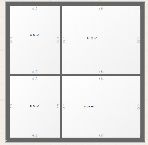
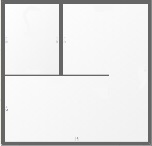
Add files via upload

diff --git a/static/func.js b/static/func.js
@@ -56,8 +56,8 @@ function initHistory(boot = false) {
         {"thick":20,"start":{"x":640,"y":744},"end":{"x":1347,"y":744},"type":"normal","parent":0,"child":2,"angle":0,"equations":{"up":{"A":"h","B":734},"down":{"A":"h","B":754},"base":{"A":"h","B":744}},"coords":[{"x":457,"y":734},{"x":437,"y":754},{"x":1357,"y":754},{"x":1337,"y":734}],"graph":{"0":{},"context":{},"length":1}},
         {"thick":20,"start":{"x":1347,"y":744},"end":{"x":1347,"y":144},"type":"normal","parent":1,"child":3,"angle":-1.5707963267948966,"equations":{"up":{"A":"v","B":1337},"down":{"A":"v","B":1357},"base":{"A":"v","B":1347}},"coords":[{"x":1337,"y":734},{"x":1357,"y":754},{"x":1357,"y":134},{"x":1337,"y":154}],"graph":{"0":{},"context":{},"length":1}},
         {"thick":20,"start":{"x":1347,"y":144},"end":{"x":640,"y":144},"type":"normal","parent":2,"child":4,"angle":3.141592653589793,"equations":{"up":{"A":"h","B":154},"down":{"A":"h","B":134},"base":{"A":"h","B":144}},"coords":[{"x":1337,"y":154},{"x":1357,"y":134},{"x":1010,"y":134},{"x":1030,"y":154}],"graph":{"0":{},"context":{},"length":1}},
-        {"thick":10,"start":{"x":920,"y":144},"end":{"x":920,"y":744},"type":"normal","parent":3,"child":5,"angle":1.5707963267948966,"equations":{"up":{"A":"v","B":1030},"down":{"A":"v","B":1010},"base":{"A":"v","B":1020}},"coords":[{"x":1030,"y":154},{"x":1010,"y":134},{"x":1010,"y":448},{"x":1030,"y":468}],"graph":{"0":{},"context":{},"length":1}},
-        {"thick":10,"start":{"x":1347,"y":458},"end":{"x":640,"y":458},"type":"normal","parent":4,"child":0,"angle":3.141592653589793,"equations":{"up":{"A":"h","B":468},"down":{"A":"h","B":448},"base":{"A":"h","B":458}},"coords":[{"x":1030,"y":468},{"x":1010,"y":448},{"x":437,"y":448},{"x":457,"y":468}],"graph":{"0":{},"context":{},"length":1}}],"roomData":[{"coords":[{"x":447,"y":744},{"x":1347,"y":744},{"x":1347,"y":144},{"x":1020,"y":144},{"x":1020,"y":458},{"x":447,"y":458},{"x":447,"y":744}],"coordsOutside":[{"x":1357,"y":754},{"x":1357,"y":134},{"x":1010,"y":134},{"x":1010,"y":448},{"x":437,"y":448},{"x":437,"y":754},{"x":1357,"y":754}],"coordsInside":[{"x":1337,"y":734},{"x":1337,"y":154},{"x":1030,"y":154},{"x":1030,"y":468},{"x":457,"y":468},{"x":457,"y":734},{"x":1337,"y":734}],"inside":[],"way":["0","2","3","4","5","1","0"],"area":330478,"surface":"","name":"","color":"gradientWhite","showSurface":true,"action":"add"}]});
+        {"thick":20,"start":{"x":920,"y":144},"end":{"x":920,"y":458},"type":"normal","parent":3,"child":5,"angle":1.5707963267948966,"equations":{"up":{"A":"v","B":1030},"down":{"A":"v","B":1010},"base":{"A":"v","B":1020}},"coords":[{"x":1030,"y":154},{"x":1010,"y":134},{"x":1010,"y":448},{"x":1030,"y":468}],"graph":{"0":{},"context":{},"length":1}},
+        {"thick":10,"start":{"x":640,"y":458},"end":{"x":1150,"y":458},"type":"normal","parent":4,"child":0,"angle":3.141592653589793,"equations":{"up":{"A":"h","B":468},"down":{"A":"h","B":448},"base":{"A":"h","B":458}},"coords":[{"x":1030,"y":468},{"x":1010,"y":448},{"x":437,"y":448},{"x":457,"y":468}],"graph":{"0":{},"context":{},"length":1}}],"roomData":[{"coords":[{"x":447,"y":744},{"x":1347,"y":744},{"x":1347,"y":144},{"x":1020,"y":144},{"x":1020,"y":458},{"x":447,"y":458},{"x":447,"y":744}],"coordsOutside":[{"x":1357,"y":754},{"x":1357,"y":134},{"x":1010,"y":134},{"x":1010,"y":448},{"x":437,"y":448},{"x":437,"y":754},{"x":1357,"y":754}],"coordsInside":[{"x":1337,"y":734},{"x":1337,"y":154},{"x":1030,"y":154},{"x":1030,"y":468},{"x":457,"y":468},{"x":457,"y":734},{"x":1337,"y":734}],"inside":[],"way":["0","2","3","4","5","1","0"],"area":330478,"surface":"","name":"","color":"gradientWhite","showSurface":true,"action":"add"}]});
       HISTORY[0] = JSON.stringify(HISTORY[0]);
       localStorage.setItem('history', JSON.stringify(HISTORY));
       load(0);
@@ -66,12 +66,12 @@ function initHistory(boot = false) {
     if (boot == "newL") {
       if (localStorage.getItem('history')) localStorage.removeItem('history');
       HISTORY.push({"objData":[],"wallData":[
-      {"thick":20,"start":{"x":447,"y":250},"end":{"x":447,"y":744},"type":"normal","parent":5,"child":1,"angle":1.5707963267948966,"equations":{"up":{"A":"v","B":457},"down":{"A":"v","B":437},"base":{"A":"v","B":447}},"coords":[{"x":457,"y":468},{"x":437,"y":448},{"x":437,"y":754},{"x":457,"y":734}],"graph":{"0":{},"context":{},"length":1}},
+      {"thick":20,"start":{"x":447,"y":144},"end":{"x":447,"y":744},"type":"normal","parent":5,"child":1,"angle":1.5707963267948966,"equations":{"up":{"A":"v","B":457},"down":{"A":"v","B":437},"base":{"A":"v","B":447}},"coords":[{"x":457,"y":468},{"x":437,"y":448},{"x":437,"y":754},{"x":457,"y":734}],"graph":{"0":{},"context":{},"length":1}},
       {"thick":20,"start":{"x":447,"y":744},"end":{"x":1347,"y":744},"type":"normal","parent":0,"child":2,"angle":0,"equations":{"up":{"A":"h","B":734},"down":{"A":"h","B":754},"base":{"A":"h","B":744}},"coords":[{"x":457,"y":734},{"x":437,"y":754},{"x":1357,"y":754},{"x":1337,"y":734}],"graph":{"0":{},"context":{},"length":1}},
       {"thick":20,"start":{"x":1347,"y":744},"end":{"x":1347,"y":144},"type":"normal","parent":1,"child":3,"angle":-1.5707963267948966,"equations":{"up":{"A":"v","B":1337},"down":{"A":"v","B":1357},"base":{"A":"v","B":1347}},"coords":[{"x":1337,"y":734},{"x":1357,"y":754},{"x":1357,"y":134},{"x":1337,"y":154}],"graph":{"0":{},"context":{},"length":1}},
-      {"thick":20,"start":{"x":1347,"y":144},"end":{"x":1020,"y":144},"type":"normal","parent":2,"child":4,"angle":3.141592653589793,"equations":{"up":{"A":"h","B":154},"down":{"A":"h","B":134},"base":{"A":"h","B":144}},"coords":[{"x":1337,"y":154},{"x":1357,"y":134},{"x":1010,"y":134},{"x":1030,"y":154}],"graph":{"0":{},"context":{},"length":1}},
-      {"thick":20,"start":{"x":1020,"y":144},"end":{"x":1020,"y":550},"type":"normal","parent":3,"child":5,"angle":1.5707963267948966,"equations":{"up":{"A":"v","B":1030},"down":{"A":"v","B":1010},"base":{"A":"v","B":1020}},"coords":[{"x":1030,"y":154},{"x":1010,"y":134},{"x":1010,"y":448},{"x":1030,"y":468}],"graph":{"0":{},"context":{},"length":1}},
-      {"thick":20,"start":{"x":1020,"y":250},"end":{"x":447,"y":250},"type":"normal","parent":4,"child":0,"angle":3.141592653589793,"equations":{"up":{"A":"h","B":468},"down":{"A":"h","B":448},"base":{"A":"h","B":458}},"coords":[{"x":1030,"y":468},{"x":1010,"y":448},{"x":437,"y":448},{"x":457,"y":468}],"graph":{"0":{},"context":{},"length":1}}],"roomData":[{"coords":[{"x":447,"y":744},{"x":1347,"y":744},{"x":1347,"y":144},{"x":1020,"y":144},{"x":1020,"y":458},{"x":447,"y":458},{"x":447,"y":744}],"coordsOutside":[{"x":1357,"y":754},{"x":1357,"y":134},{"x":1010,"y":134},{"x":1010,"y":448},{"x":437,"y":448},{"x":437,"y":754},{"x":1357,"y":754}],"coordsInside":[{"x":1337,"y":734},{"x":1337,"y":154},{"x":1030,"y":154},{"x":1030,"y":468},{"x":457,"y":468},{"x":457,"y":734},{"x":1337,"y":734}],"inside":[],"way":["0","2","3","4","5","1","0"],"area":330478,"surface":"","name":"","color":"gradientWhite","showSurface":true,"action":"add"}]});
+      {"thick":20,"start":{"x":1347,"y":144},"end":{"x":447,"y":144},"type":"normal","parent":2,"child":4,"angle":3.141592653589793,"equations":{"up":{"A":"h","B":154},"down":{"A":"h","B":134},"base":{"A":"h","B":144}},"coords":[{"x":1337,"y":154},{"x":1357,"y":134},{"x":1010,"y":134},{"x":1030,"y":154}],"graph":{"0":{},"context":{},"length":1}},
+      {"thick":20,"start":{"x":1020,"y":144},"end":{"x":1020,"y":744},"type":"normal","parent":3,"child":5,"angle":1.5707963267948966,"equations":{"up":{"A":"v","B":1030},"down":{"A":"v","B":1010},"base":{"A":"v","B":1020}},"coords":[{"x":1030,"y":154},{"x":1010,"y":134},{"x":1010,"y":448},{"x":1030,"y":468}],"graph":{"0":{},"context":{},"length":1}},
+      {"thick":20,"start":{"x":1020,"y":480},"end":{"x":447,"y":480},"type":"normal","parent":4,"child":0,"angle":3.141592653589793,"equations":{"up":{"A":"h","B":468},"down":{"A":"h","B":448},"base":{"A":"h","B":458}},"coords":[{"x":1030,"y":468},{"x":1010,"y":448},{"x":437,"y":448},{"x":457,"y":468}],"graph":{"0":{},"context":{},"length":1}}],"roomData":[{"coords":[{"x":447,"y":744},{"x":1347,"y":744},{"x":1347,"y":144},{"x":1020,"y":144},{"x":1020,"y":458},{"x":447,"y":458},{"x":447,"y":744}],"coordsOutside":[{"x":1357,"y":754},{"x":1357,"y":134},{"x":1010,"y":134},{"x":1010,"y":448},{"x":437,"y":448},{"x":437,"y":754},{"x":1357,"y":754}],"coordsInside":[{"x":1337,"y":734},{"x":1337,"y":154},{"x":1030,"y":154},{"x":1030,"y":468},{"x":457,"y":468},{"x":457,"y":734},{"x":1337,"y":734}],"inside":[],"way":["0","2","3","4","5","1","0"],"area":330478,"surface":"","name":"","color":"gradientWhite","showSurface":true,"action":"add"}]});
       HISTORY[0] = JSON.stringify(HISTORY[0]);
       localStorage.setItem('history', JSON.stringify(HISTORY));
       load(0);
